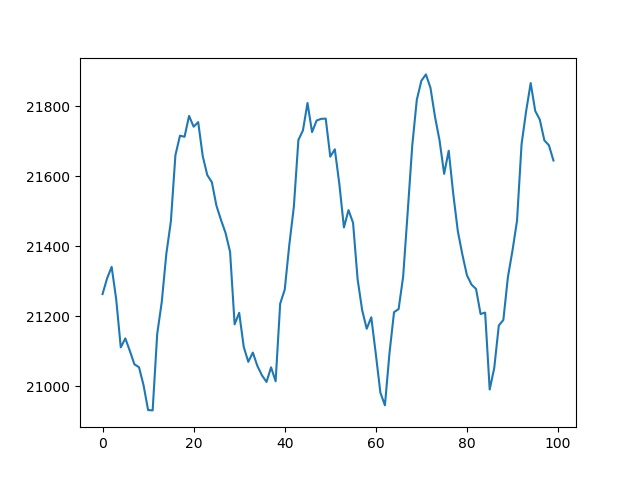
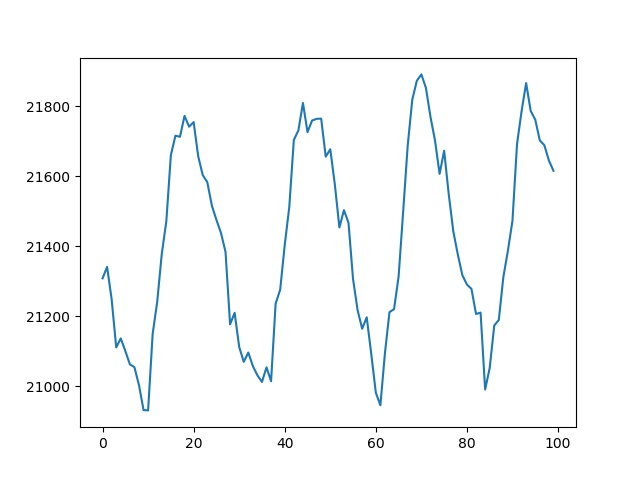
'auto'

Changed region(s): [[0.3438, 0.1562, 0.875, 0.8438], [0.1562, 0.2188, 0.3438, 0.875]]

diff --git a/README.md b/README.md
@@ -1,5 +1,5 @@
 Frizider live: 8
-21644.675 
+21615.416666666664 
 0
 Temperatura:
 
